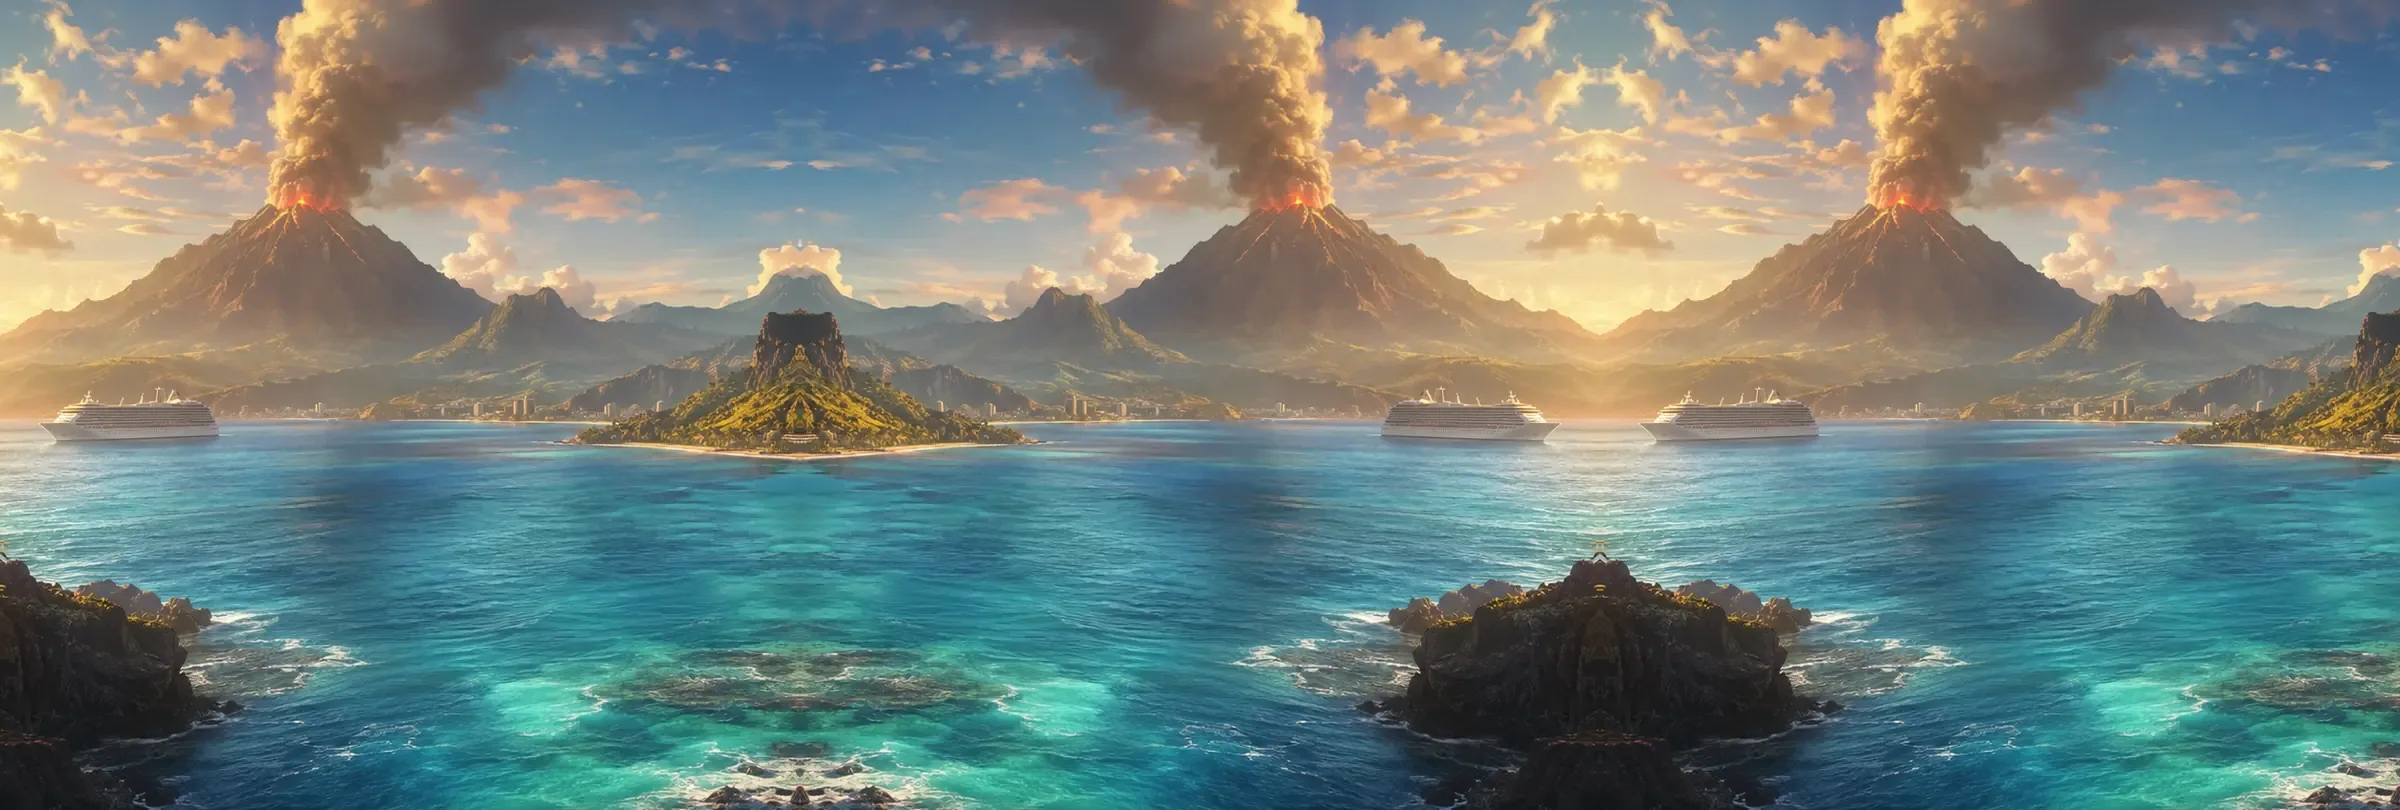
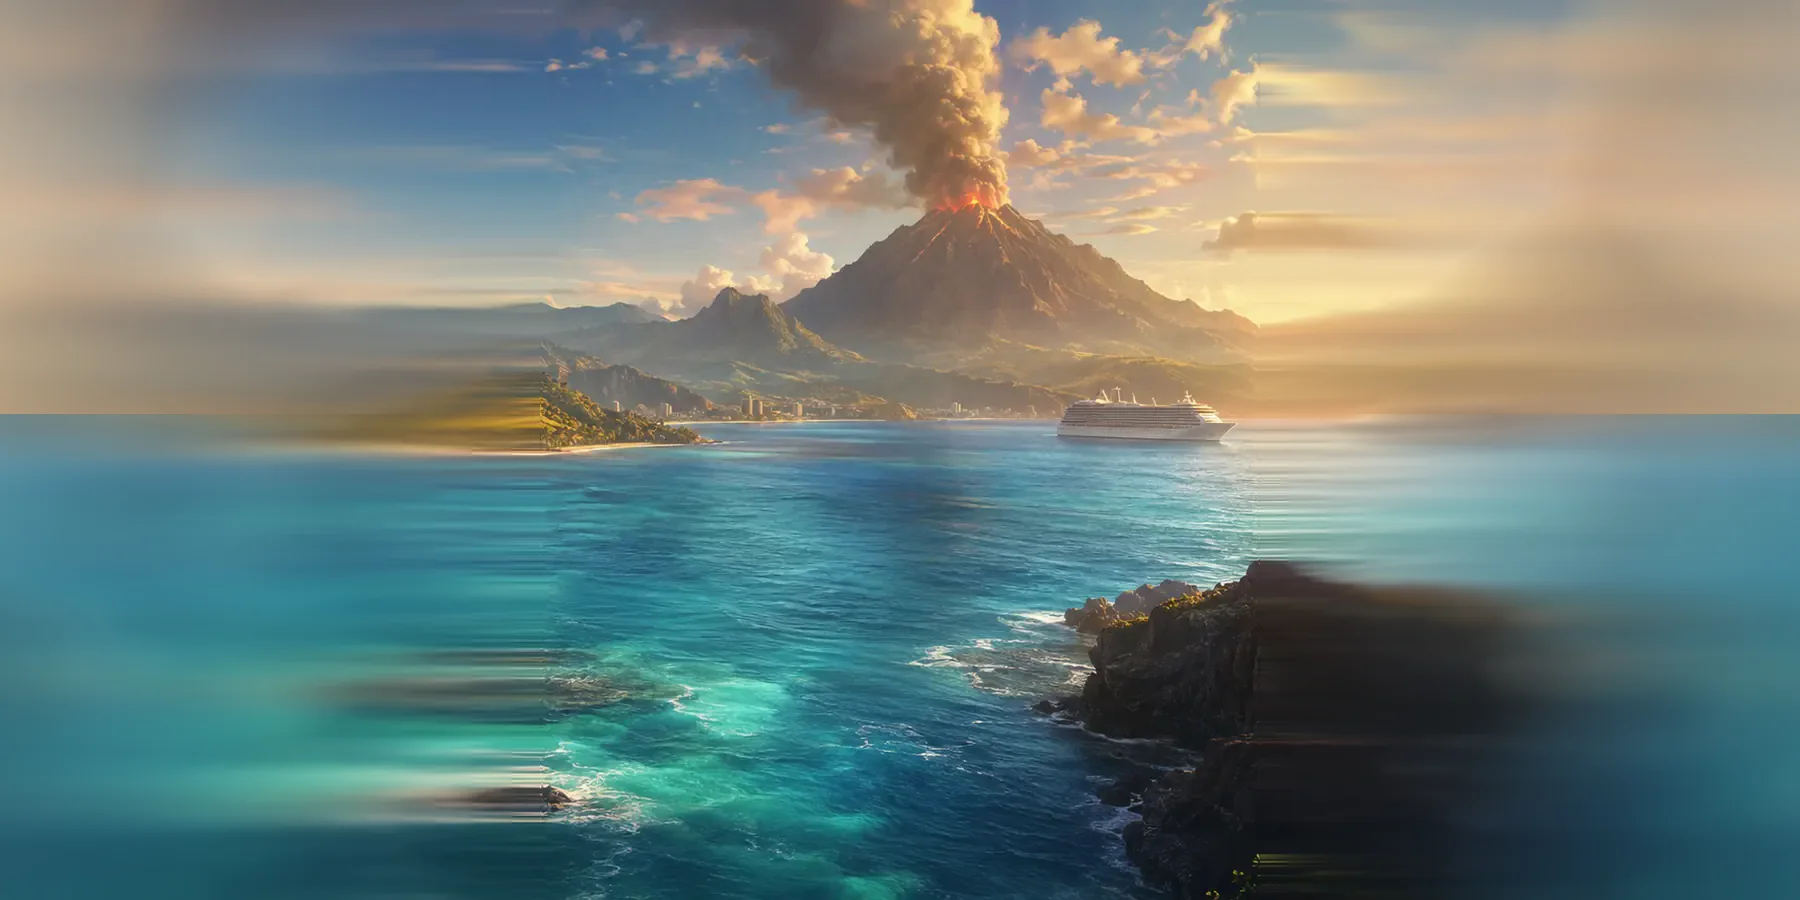
Un-twin the Hawaii backdrop (single volcano with blurred sea/sky wings), lighten roadside boulders, add an inland 3D volcano

diff --git a/js/track.js b/js/track.js
@@ -899,17 +899,18 @@ export class Track {
   // Diamond Head: a tuff-cone crater with an irregular rim that peaks on the
   // seaward side, flat-shaded and vertex-colored khaki/olive like the real
   // thing. Built as geometry so it has parallax and occludes the horizon.
-  buildCrater(center, radius, height, seaward) {
+  buildCrater(center, radius, height, seaward, opts = {}) {
     const segs = 40;
-    const rings = [
+    const rings = opts.rings || [
       { rr: 1.0, hh: 0.0 }, { rr: 0.84, hh: 0.16 }, { rr: 0.66, hh: 0.5 },
       { rr: 0.5, hh: 1.0 }, { rr: 0.32, hh: 0.66 }, { rr: 0.0, hh: 0.56 },
     ];
     const peak = Math.atan2(seaward.z, seaward.x);
     const verts = []; const cols = []; const idx = [];
-    const low = new THREE.Color('#8f9350');
-    const mid = new THREE.Color('#bda06a');
-    const high = new THREE.Color('#a0865a');
+    const palette = opts.palette || { low: '#8f9350', mid: '#bda06a', high: '#a0865a' };
+    const low = new THREE.Color(palette.low);
+    const mid = new THREE.Color(palette.mid);
+    const high = new THREE.Color(palette.high);
     const c = new THREE.Color();
     rings.forEach((ring, ri) => {
       for (let k = 0; k <= segs; k++) {
@@ -945,7 +946,9 @@ export class Track {
     const mesh = new THREE.Mesh(geo, new THREE.MeshLambertMaterial({
       vertexColors: true, flatShading: true, fog: false, side: THREE.DoubleSide,
     }));
-    mesh.userData.kind = 'diamondHead';
+    mesh.userData.kind = opts.kind || 'diamondHead';
+    mesh.userData.radius = radius;
+    mesh.userData.center = center.clone();
     mesh.userData.peak = new THREE.Vector3(
       center.x + Math.cos(peak) * radius * 0.5, center.y + height, center.z + Math.sin(peak) * radius * 0.5,
     );
@@ -1048,6 +1051,22 @@ export class Track {
         const seaward = f.left.clone().multiplyScalar(Math.sign(lm.x) || 1);
         p.y = this.coast ? this.coast.seaLevel - 0.3 : -0.6;
         this.buildCrater(p, lm.r || 400, lm.h || 200, seaward);
+        return;
+      }
+      if (lm.kind === 'volcano' && lm.r) {
+        // A shield volcano far inland: forested skirt, bare brown flanks,
+        // dark summit. Its near rim faces the road so the cone reads as a
+        // silhouette above the ridge for the back half of the stage.
+        const toRoad = f.left.clone().multiplyScalar(-(Math.sign(lm.x) || 1));
+        p.y = -0.8;
+        this.buildCrater(p, lm.r, lm.h || 400, toRoad, {
+          kind: 'volcano',
+          palette: { low: '#6f7d46', mid: '#6b5748', high: '#3d3634' },
+          rings: [
+            { rr: 1.0, hh: 0.0 }, { rr: 0.8, hh: 0.2 }, { rr: 0.55, hh: 0.56 },
+            { rr: 0.3, hh: 1.0 }, { rr: 0.18, hh: 0.86 }, { rr: 0.0, hh: 0.8 },
+          ],
+        });
         return;
       }
       if (lm.kind === 'lighthouse') {

diff --git a/js/tex.js b/js/tex.js
@@ -246,10 +246,13 @@ export function rockTexture() {
   const c = canvas(128, 80);
   const g = c.getContext('2d');
   g.clearRect(0, 0, 128, 80);
+  // Kept light: the Lambert prop material and crossed planes each take a
+  // bite out of the brightness, and a dark gradient here rendered as a
+  // black sphere on the grass.
   const shade = g.createRadialGradient(50, 26, 6, 64, 44, 60);
-  shade.addColorStop(0, '#8d8375');
-  shade.addColorStop(0.55, '#5f564c');
-  shade.addColorStop(1, '#35302b');
+  shade.addColorStop(0, '#d8cfbe');
+  shade.addColorStop(0.55, '#a1978a');
+  shade.addColorStop(1, '#6a615a');
   g.fillStyle = shade;
   g.beginPath();
   g.moveTo(6, 78); g.quadraticCurveTo(2, 40, 26, 22); g.quadraticCurveTo(48, 2, 82, 10);
@@ -259,7 +262,7 @@ export function rockTexture() {
   g.beginPath(); g.ellipse(58, 26, 26, 10, -0.3, 0, Math.PI * 2); g.fill();
   g.fillStyle = 'rgba(40,90,40,0.55)';
   g.beginPath(); g.ellipse(64, 74, 58, 8, 0, 0, Math.PI * 2); g.fill();
-  g.strokeStyle = 'rgba(0,0,0,0.35)'; g.lineWidth = 2;
+  g.strokeStyle = 'rgba(0,0,0,0.22)'; g.lineWidth = 2;
   g.beginPath(); g.moveTo(40, 30); g.quadraticCurveTo(60, 44, 66, 70); g.stroke();
   return tex(c);
 }
@@ -1363,12 +1366,12 @@ export function cantinaNeonTexture() {
 export function lavarockTexture() {
   const c = canvas(56, 36);
   const g = c.getContext('2d');
-  g.fillStyle = '#2c2c34';
+  g.fillStyle = '#4e4e5a';
   g.beginPath();
   g.moveTo(2, 36); g.lineTo(10, 12); g.lineTo(26, 4); g.lineTo(42, 12); g.lineTo(54, 36);
   g.closePath(); g.fill();
   g.fillStyle = '#ff6a2c'; g.fillRect(16, 18, 8, 3); g.fillRect(32, 24, 10, 3);
-  g.fillStyle = '#4a4a54'; g.fillRect(12, 12, 12, 4); g.fillRect(30, 8, 10, 4);
+  g.fillStyle = '#7b7b88'; g.fillRect(12, 12, 12, 4); g.fillRect(30, 8, 10, 4);
   return tex(c);
 }
 

diff --git a/js/data.js b/js/data.js
@@ -94,10 +94,14 @@ export const STAGES = [
     // Sky/ridge strip cut from the postcard painting and mirror-tiled, so
     // the backdrop scrolls seamlessly through the whole 180-degree route and
     // never shows a foreground palm folded in half at the wrap.
-    panorama: 'assets/env/hawaii-backdrop.webp?v=world-feel-2',
-    panoramaSpan: 3.9,
-    panoramaAspect: 2400 / 810,
-    panoramaHorizon: 0.45,
+    // One volcano/ridge/ship section of the painting flanked by blurred
+    // sea/sky bands, so the mirrored wrap never twins the volcano. The
+    // horizon is pinned a little below eye level: the sea plane hides the
+    // painted foothills and the plume clears the top of a phone screen.
+    panorama: 'assets/env/hawaii-backdrop.webp?v=world-feel-3',
+    panoramaSpan: 3.7,
+    panoramaAspect: 1800 / 900,
+    panoramaHorizon: 0.6,
     sky: ['#4faaff', '#9fdcff', '#ffe9b8'],
     ground: '#4a9a46',
     groundDetail: '#367a36',
@@ -146,7 +150,10 @@ export const STAGES = [
       // view from the start line and wrapped by the first right-hand bend.
       { kind: 'diamondHead', at: 0.15, x: 560, r: 420, h: 215 },
       { kind: 'lighthouse', at: 0.205, x: 88, w: 6, h: 22 },
-      { kind: 'volcano', at: 0.72, x: -420, w: 900, h: 380 },
+      // A real cone far inland (see Track.buildCrater): the back half of the
+      // stage faces away from the painted volcano, so this one keeps a
+      // mountain on the horizon over the cliff and lava zones.
+      { kind: 'volcano', at: 0.95, x: -1900, r: 1000, h: 520 },
       { kind: 'cruiseShip', at: 0.28, x: 200, w: 260, h: 80 },
       { kind: 'cruiseShip', at: 0.06, x: 260, w: 220, h: 70 },
     ],
